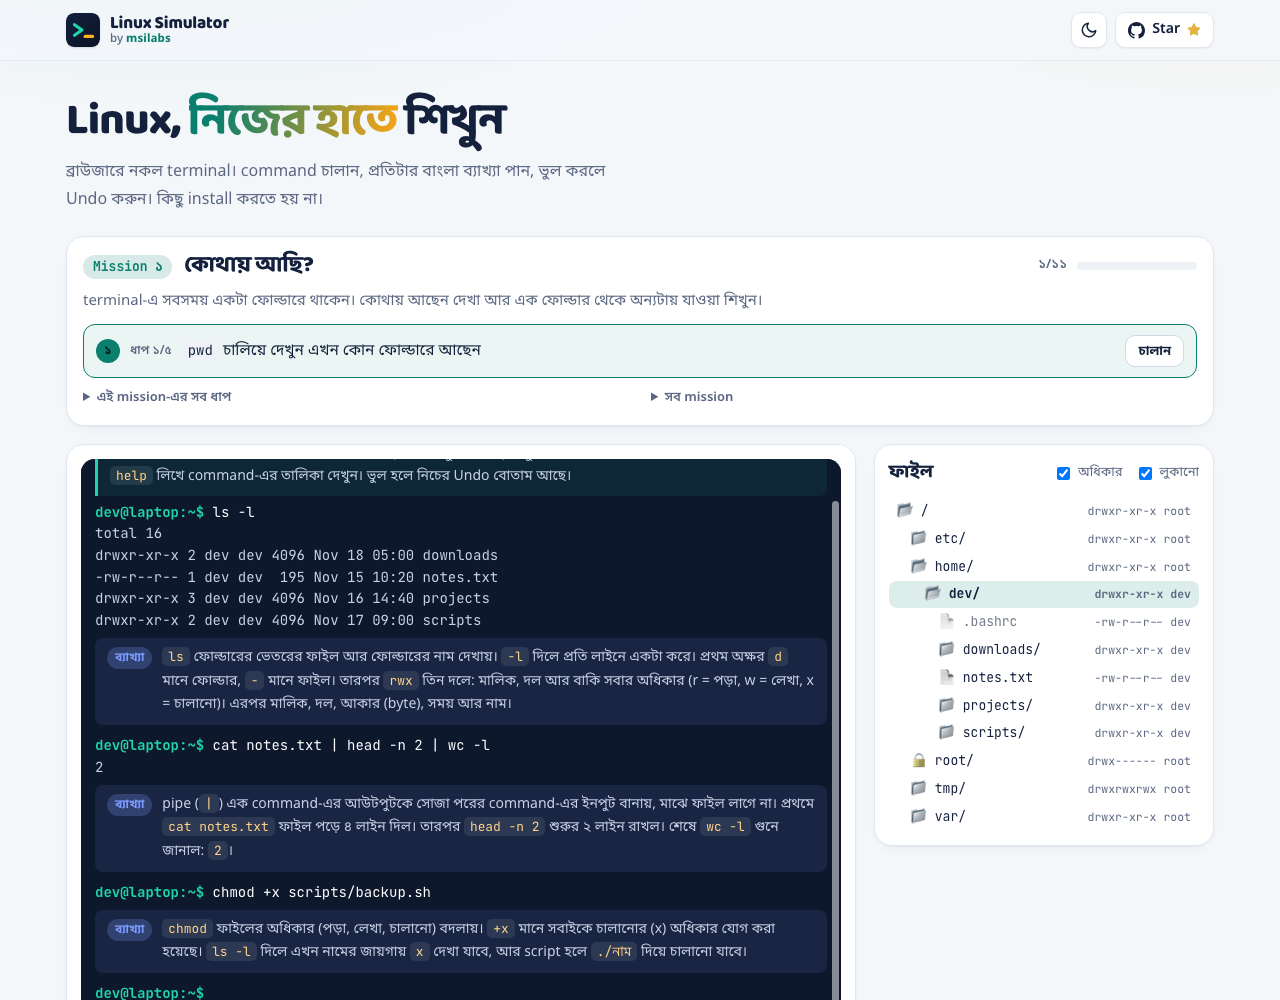
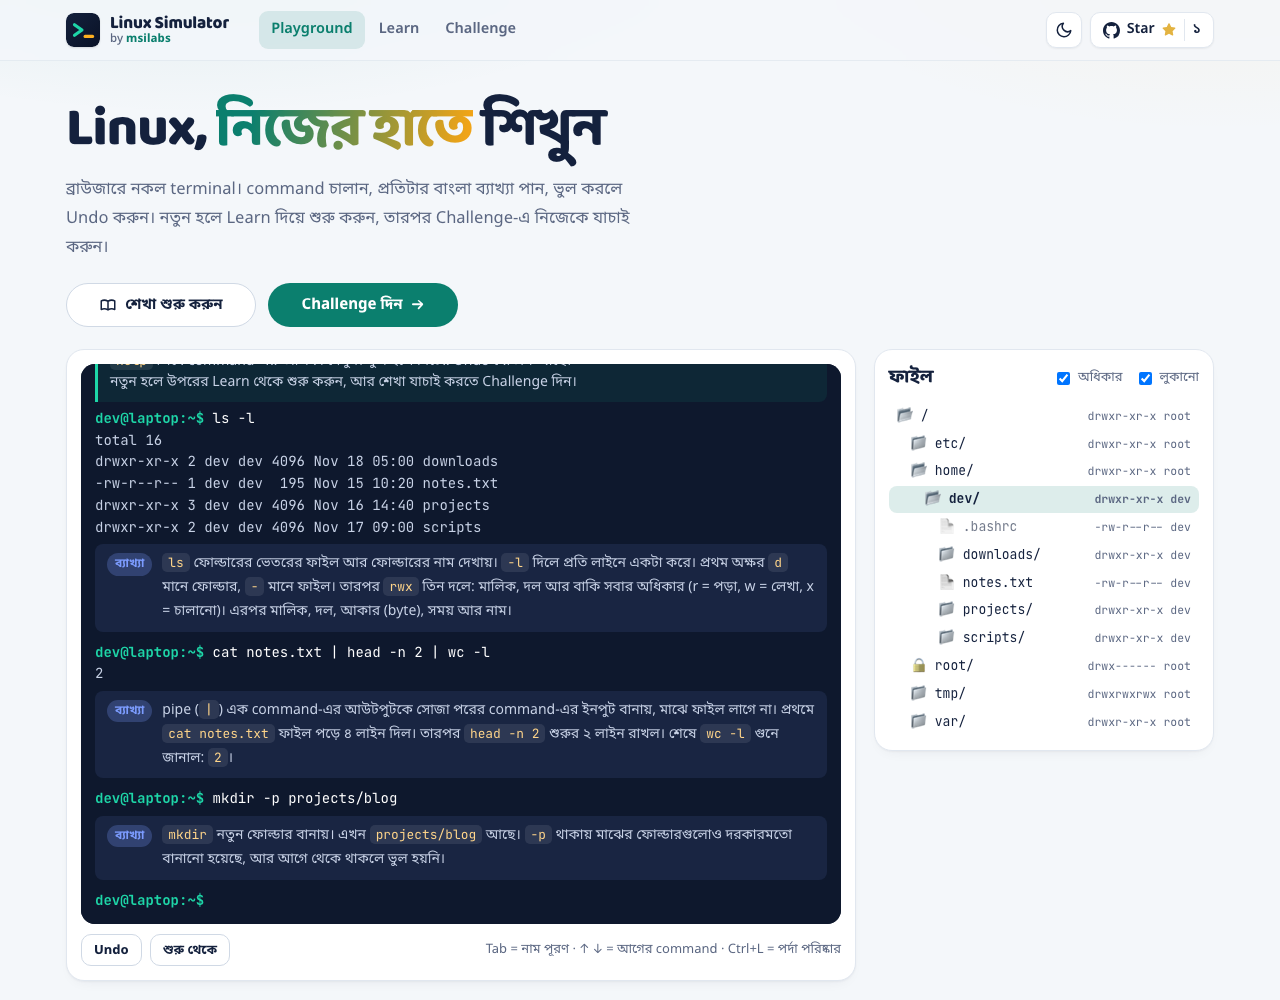
docs: update README, SEO text and screenshots for Learn and Challenge

diff --git a/global/03-seed.js b/global/03-seed.js
@@ -1,4 +1,4 @@
-// শুরুর file system আর state। প্রতিবার হুবহু একই, তাই test আর mission নির্ভরযোগ্য।
+// শুরুর file system আর state। প্রতিবার হুবহু একই, তাই test, পাঠ আর challenge নির্ভরযোগ্য।
 (function (root) {
     var Fs = typeof module !== 'undefined' && module.exports ? require('./02-fs.js') : root.LinuxFs;
 

diff --git a/README.md b/README.md
@@ -1,17 +1,26 @@
 # Linux Simulator
 
-ব্রাউজারে নকল Linux terminal। `cd`, `ls`, `grep`, `chmod`, pipe নিজের হাতে চালান, প্রতিটা command-এর পরে বাংলায় বলে দেয় কী হলো আর কেন। কিছু install করতে হয় না, ভুল করলে Undo আছে, আপনার লেখা কোথাও পাঠানো হয় না।
+ব্রাউজারে নকল Linux terminal। `cd`, `ls`, `grep`, `chmod`, pipe নিজের হাতে চালান, প্রতিটা command-এর পরে বাংলায় বলে দেয় কী হলো আর কেন। ১৬টা ছোট পাঠে শুরু থেকে শিখুন, তারপর ১৫টা challenge-এ নিজেকে যাচাই করুন। কিছু install করতে হয় না, ভুল করলে Undo আছে, আপনার লেখা কোথাও পাঠানো হয় না।
 
 🔗 **লাইভ:** https://msilabs.github.io/linux-simulator/
 
-![Linux Simulator: mission, terminal আর ফাইল গাছ](docs/screenshots/home.png)
+![Linux Simulator: Playground-এ terminal আর ফাইল গাছ](docs/screenshots/home.png)
+
+## তিনটা অংশ
+
+- **Playground** (home): খোলা terminal আর পাশে ফাইল গাছ। যা খুশি চালান, অগ্রগতি browser-এ সেভ থাকে।
+- **Learn:** ১৬টা ছোট পাঠ, তিন ধাপে: শুরু (terminal, `cd`, path, ফাইল বানানো, পড়া, কপি-মোছা), পরের ধাপ (glob, `find`, `grep`, redirect, pipe, `man`), গভীরে (অধিকার, `sudo`, process, variable আর alias)। প্রতিটা পাঠে ছোট terminal আছে, যেখানে কিছু command আগে থেকে চালানো থাকে আর নিজে আরও চালানো যায়।
+- **Challenge:** ১৫টা, সহজ থেকে কঠিন। কী করতে হবে বলা থাকে, কোন command লাগবে বলা থাকে না। যাচাই হয় ফল দেখে, হুবহু লেখা মিলিয়ে নয়, তাই যেকোনো সঠিক পথে সমাধান চলে। প্রতিটা command-এর পরে নিজে থেকে যাচাই হয়, সাথে ইঙ্গিত আর উত্তর। একটা শেষ হলে পরেরটা খোলে।
+
+![Learn: পাঠের ভেতরে চালানো-যায় এমন terminal](docs/screenshots/lesson.png)
+
+![Challenge: কাজ, যাচাইয়ের তালিকা, terminal আর ফাইল গাছ](docs/screenshots/challenge.png)
 
 ## কী কী আছে
 
 - **বাংলা ব্যাখ্যা:** প্রতিটা command-এর পরে ছোট ব্যাখ্যা। `pipe` থাকলে ধাপে ধাপে বলে: "প্রথমে `cat` ৪ লাইন দিল, তারপর `head` ২ লাইন রাখল, শেষে `wc -l` গুনে জানাল"। ভুল হলে বলে কেন হলো আর কী করতে হবে (যেমন `Permission denied` এলে কোন অধিকার নেই)।
 - **৪৮টা command:** `ls cd pwd tree mkdir rmdir touch cat echo cp mv rm head tail wc grep find sort uniq cut less chmod chown sudo whoami id ps kill du df ln nano date uname hostname sleep env export unset alias unalias which man history clear help true false`।
 - **shell:** pipe (`|`), redirect (`> >> < 2> 2>&1`), `&& || ;`, `$VAR`, `~`, glob (`* ? [abc]`), alias, আর `./script.sh`।
-- **১১টা mission, ৫০টা ধাপ:** "কোথায় আছি?" থেকে "log থেকে সমস্যা খোঁজা" পর্যন্ত। ধাপ পূর্ণ হয় ফল দেখে, হুবহু লেখা মিলিয়ে নয়, তাই `mkdir -p a/b` আর `mkdir a && mkdir a/b` দুটোই চলে।
 - **ফাইল গাছ:** পাশে সব ফাইল, অধিকারসহ। command চালালে নতুন আর বদলানো ফাইল কিছুক্ষণ রঙিন থাকে, মোছা জিনিসের নাম বার্তায় আসে। ফাইলে click করলে লেখা দেখা যায়।
 - **অধিকার সত্যিই কাজ করে:** `chmod 000` দিলে নিজেও পড়তে পারবেন না, script-এ `x` না থাকলে `./backup.sh` চলে না, `root`-এর ফোল্ডারে `sudo` ছাড়া ঢোকা যায় না।
 - **ভয় ছাড়া ভুল করা:** Undo আর "শুরু থেকে"। `rm -rf /`, `rm -rf ~`, `chmod -R 777 /` আটকে দিয়ে বুঝিয়ে বলে আসল server-এ কী হতো।
@@ -31,14 +40,14 @@
 npm install
 npm run dev     # http://localhost:3000
 npm run build   # dist/ ফোল্ডারে সাইট
-npm test        # engine, mission, আসল bash-এর সাথে তুলনা আর browser test
+npm test        # engine, পাঠ, challenge, আসল bash-এর সাথে তুলনা আর browser test
 ```
 
 GitHub Pages-এর মতো সাব-পাথের জন্য: `node alo build --base /linux-simulator/`
 
 ## কীভাবে কাজ করে
 
-পুরো simulator সাধারণ JavaScript। `global/`-এর ফাইলগুলো নামের ক্রমে একটা script হয়ে জোড়া লাগে, আর `90-app.js` ছাড়া কোনোটাই DOM ছোঁয় না, তাই Node-এও `require` করে test করা যায়।
+পুরো simulator সাধারণ JavaScript। `global/`-এর ফাইলগুলো নামের ক্রমে একটা script হয়ে জোড়া লাগে। `8x-` আর `9x-` ফাইল ছাড়া কোনোটাই DOM ছোঁয় না, তাই Node-এও `require` করে test করা যায়।
 
 ```
 global/
@@ -55,12 +64,17 @@ global/
   21-explain.js    বাংলা ব্যাখ্যা
   22-complete.js   Tab completion
   23-man.js        বাংলা manual
-  25-missions.js   mission আর ধাপ যাচাই
   30-session.js    undo, replay, Ctrl+C, editor সেভ
+  31-challenge.js  challenge চালু করা আর যাচাই (ঘোষণার আকারের check)
   32-storage.js    localStorage-এ সেভ আর যাচাই
   33-filetree.js   ফাইল গাছের সারি আর বদলের হিসাব
-  90-app.js        DOM: terminal, গাছ, mission panel, key bar, editor
+  80-terminal.js   DOM: terminal বসানো (একই পেজে অনেকগুলো), key bar, nano editor
+  81-tree-view.js  DOM: পাশের ফাইল গাছ
+  90-app.js        DOM: Playground জোড়া দেওয়া আর সেভ
   style.css        সব CSS
+data/learn/        পাঠ (Markdown)
+data/challenges/   challenge (JSON)
+pages/             home (Playground), learn, challenge
 tests/             node --test
 tools/og.html      শেয়ারের ছবির নকশা
 ```
@@ -78,15 +92,17 @@ tools/og.html      শেয়ারের ছবির নকশা
 `npm test` চালায়:
 
 - **unit test:** path, file system, parser, প্রতিটা command, session, undo, সেভ।
-- **mission test:** প্রতিটা ধাপ নিজের প্রস্তাবিত command-এ শেষ হয় কিনা, আর অন্য সঠিক উপায়েও হয় কিনা।
+- **পাঠের test:** ১৬টা পাঠের ক্রম আর তথ্য ঠিক আছে কিনা, আর প্রতিটা terminal বাক্সের প্রতিটা command চলে কিনা। ইচ্ছে করে ভুল দেখানো command-এ `#` দিয়ে কারণ লেখা থাকতে হয়।
+- **challenge test:** শুরুতেই কোনো challenge পাস হয়ে যায় না, উত্তর আর বিকল্প উত্তর পাস করে, আর অর্ধেক কাজ (যেমন `-9` ছাড়া শুধু `kill`) পাস করে না।
 - **আসল bash-এর সাথে তুলনা** (`tests/bash-compare.test.mjs`): ১১০টারও বেশি command আসল `bash` আর সিস্টেমের tool-এ চালিয়ে `stdout`, `stderr` আর exit code মেলানো হয়। শুধু Linux-এ চলে, CI-তে `ubuntu-latest`-এ। অন্য জায়গায় skip হয়।
 - **browser test** (`tests/e2e.test.mjs`): আসল Chrome-এ পুরো পেজ। Chrome না থাকলে skip। কোনো বাড়তি package লাগে না।
 
 ## নতুন কিছু যোগ করা
 
 - **command:** `global/10-commands/`-এর কোনো ফাইলে `Registry.register('নাম', { desc, run })` লিখুন। `run` পায় `{ state, args, stdin, tty }` আর ফেরত দেয় `{ state, stdout, stderr, code, errno }`। বাংলা ব্যাখ্যা যোগ করুন `21-explain.js`-এ, `man` page `23-man.js`-এ, আর test লিখুন।
-- **mission:** `25-missions.js`-এর তালিকায় যোগ করুন। নতুন ধাপ শুধু শেষে বসান, নাহলে পুরোনো সেভের অগ্রগতি অন্য ধাপে চলে যাবে।
-- **শুরুর ফাইল:** `03-seed.js`। বদলালে mission আর test ঠিক আছে কিনা দেখুন।
+- **পাঠ:** `data/learn/`-এ Markdown ফাইল, front matter-এ `title`, `order`, `summary`। ```` ```terminal ```` ব্লকের `$ ` দিয়ে শুরু লাইনগুলো আগে থেকে চালানো থাকে।
+- **challenge:** `data/challenges/`-এ JSON: `title`, `level`, `task`, `setup`, `checks`, `hint`, `solution`, `alternatives`। কোন কোন check আছে (`cwd`, `exists`, `missing`, `content`, `mode`, `owner`, `stdout`, `noProcess`, `alias`, `env`) তা `31-challenge.js`-এর শুরুতে লেখা।
+- **শুরুর ফাইল:** `03-seed.js`। বদলালে পাঠ, challenge আর test ঠিক আছে কিনা দেখুন।
 
 উদাহরণে কারো আসল ফোন নম্বর বা IP দেবেন না। `01712345678`-এর মতো ক্রমিক নম্বর আর `192.0.2.x`, `198.51.100.x`, `203.0.113.x` ব্যবহার করুন।
 
